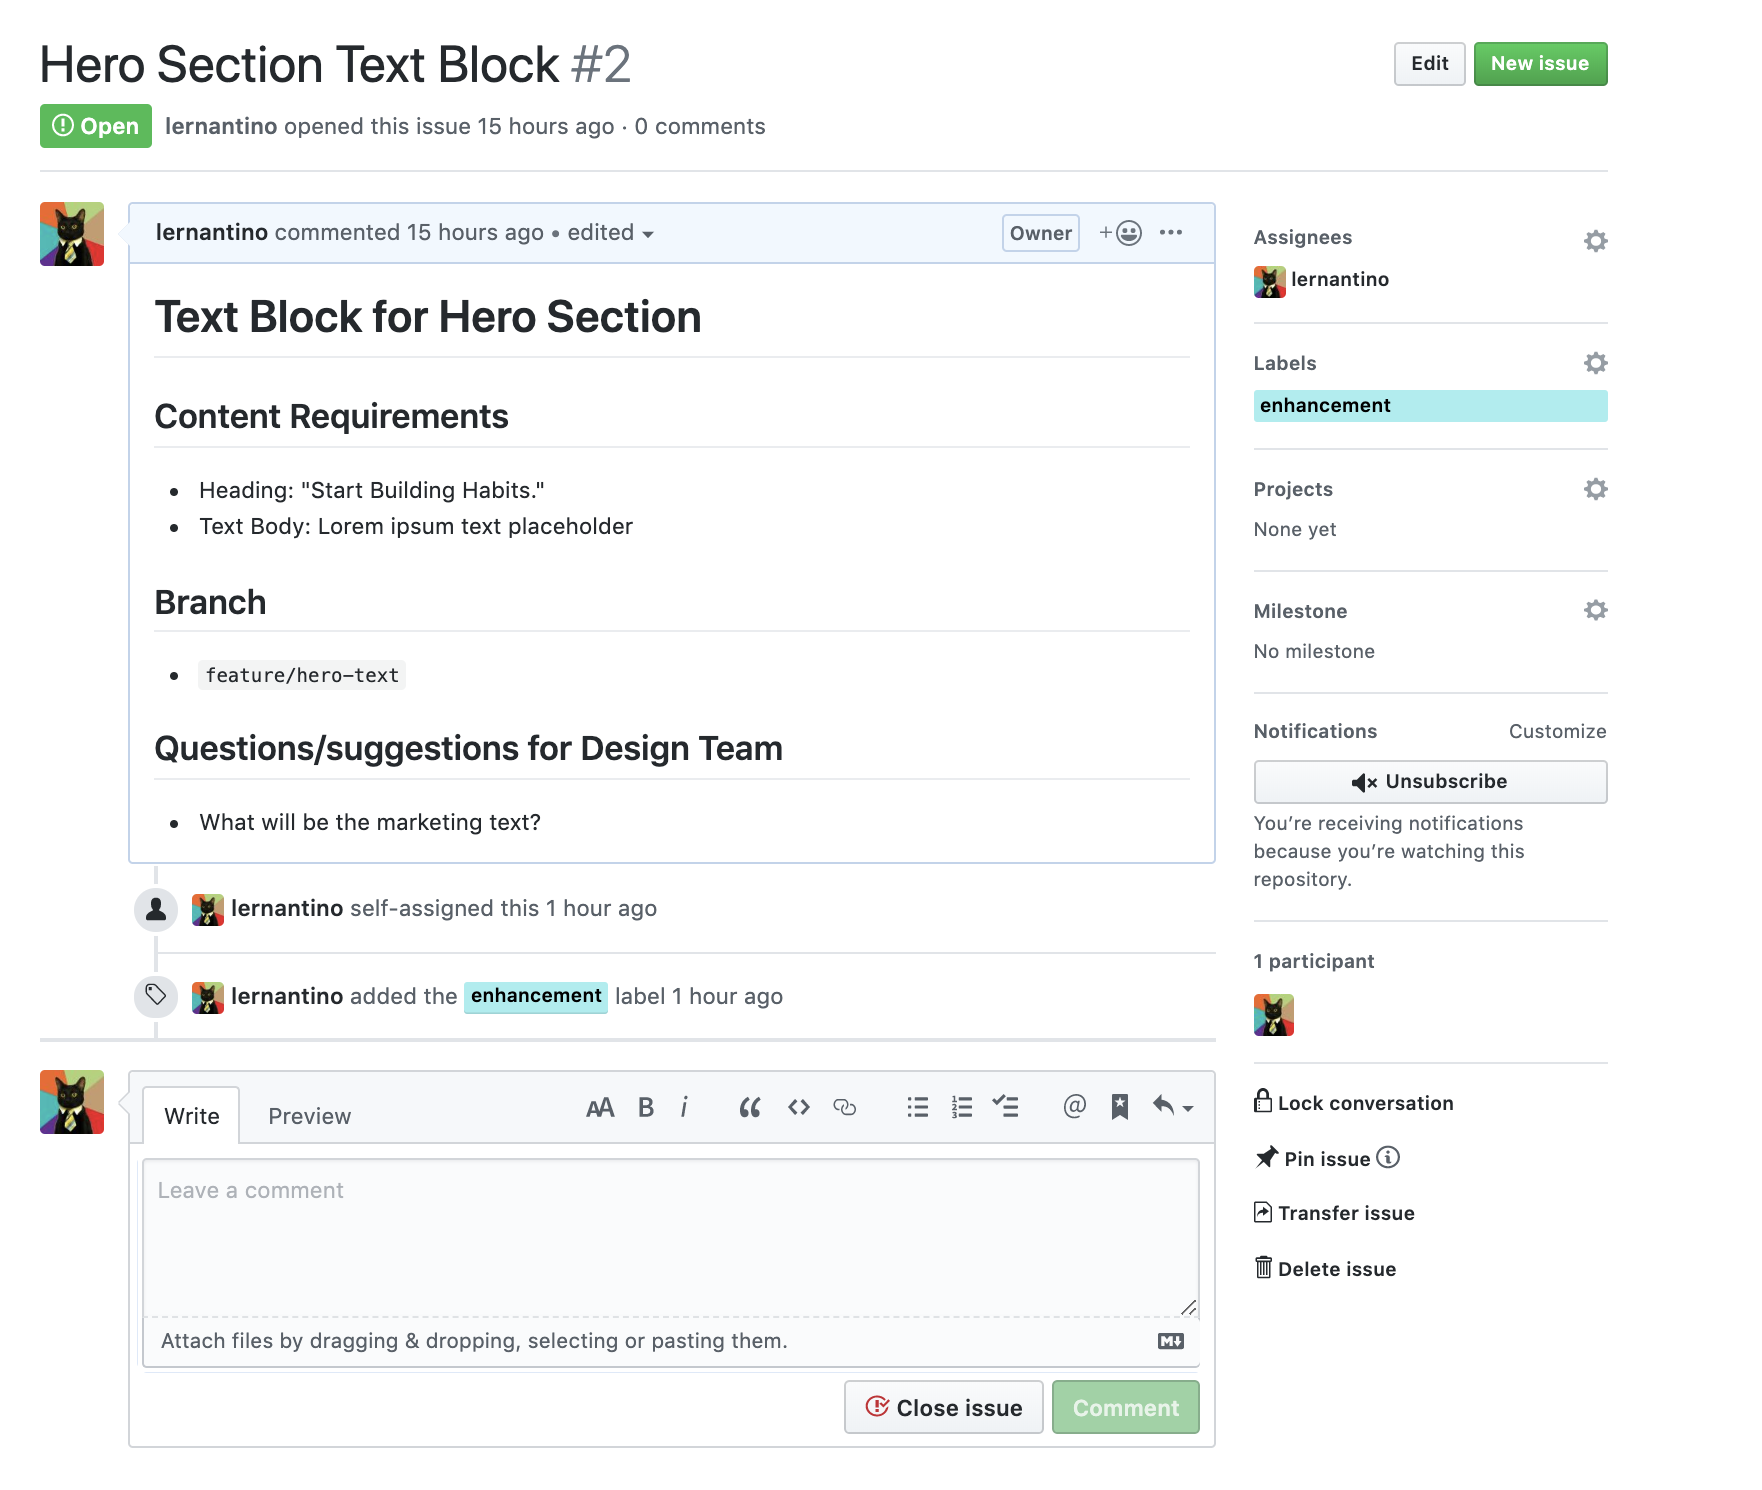
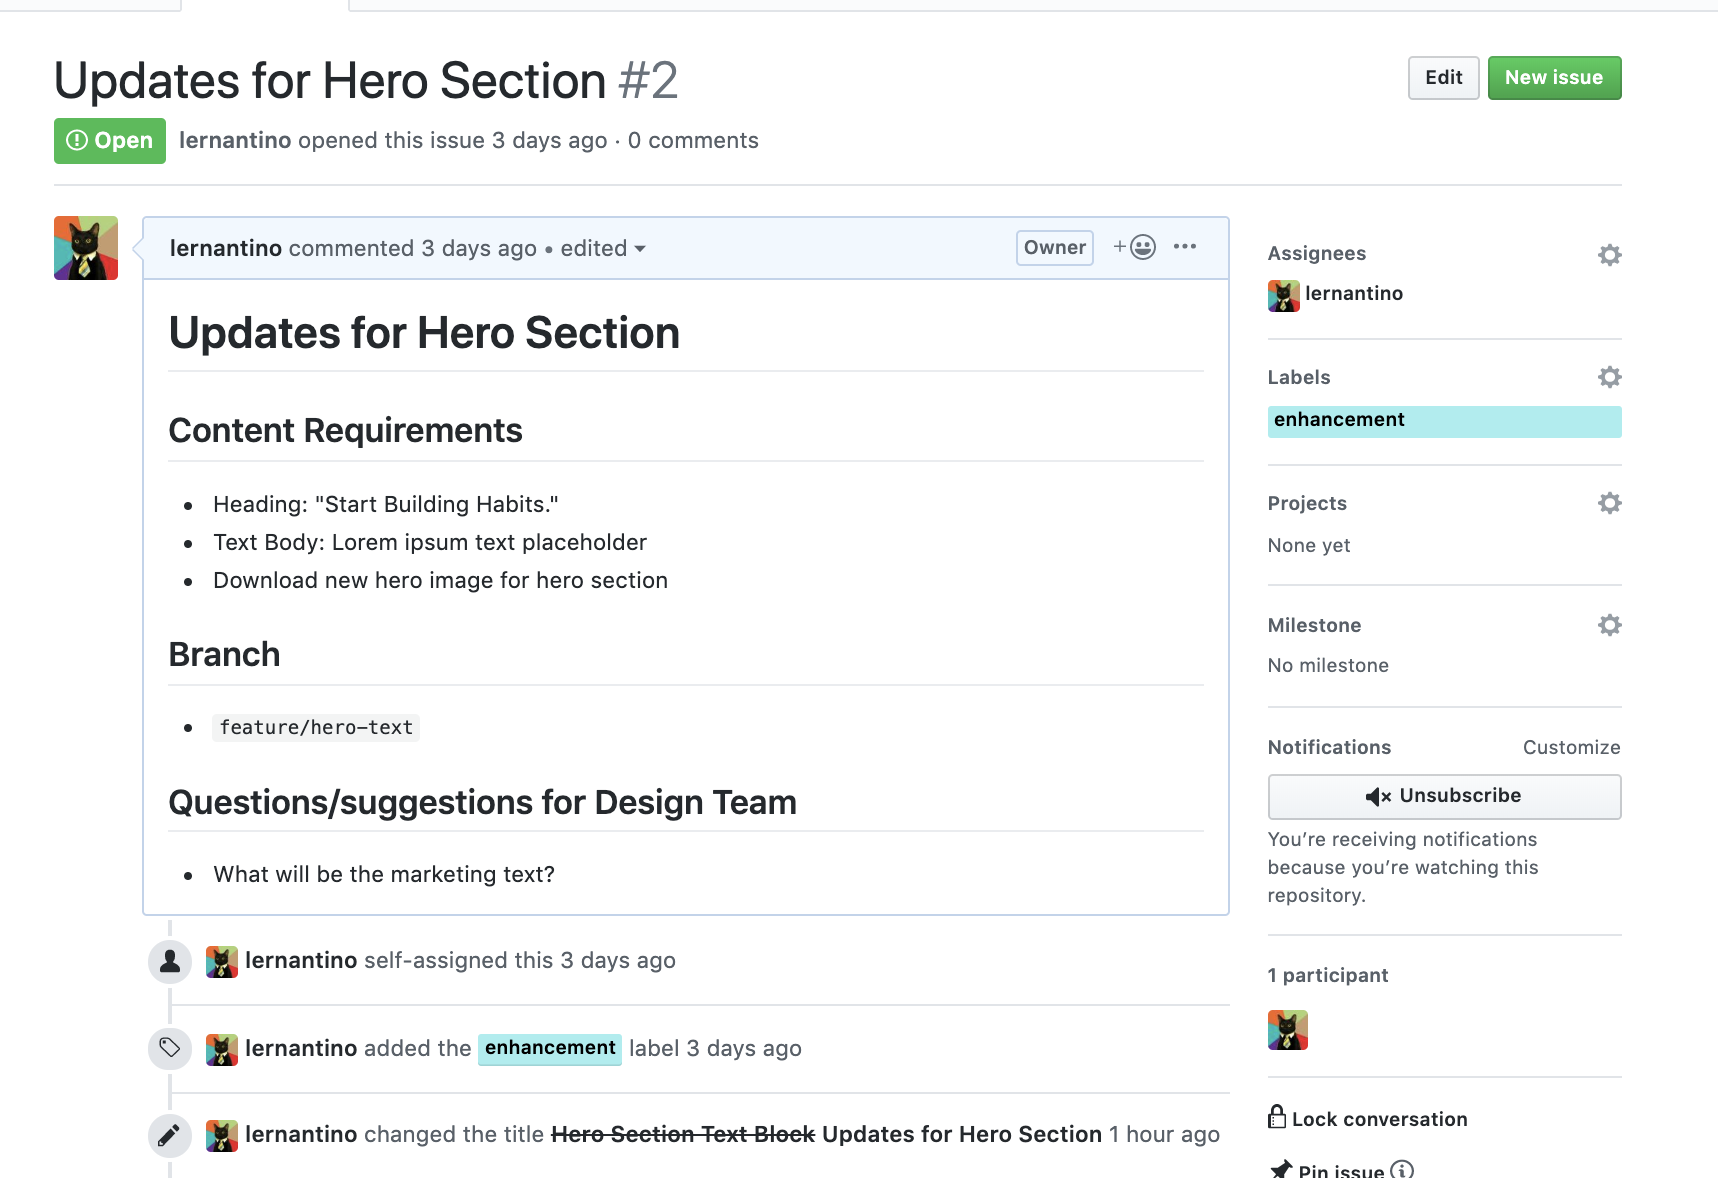
checked updated changes to peer review

diff --git a/02-css/content/lesson-1-git_workflow.md b/02-css/content/lesson-1-git_workflow.md
@@ -424,15 +424,16 @@ The naming convention for feature branches is something normally agreed upon by 
 >3) Type a comment using Markdown to outline the feature's requirements and other information related to this task.
 Here is a simple example: 
 ```markdown
-# Text Block for Hero Section
+# Updates for Hero Section
 
 ## Content Requirements
-* Heading = "Start Building Habits."
-* Lorem ipsum text placeholder
+* Heading: "Start Building Habits."
+* Text Body: Lorem ipsum text placeholder
+* Download new hero image for hero section
 
 ## Branch
 * `feature/hero-text`
- 
+
 ## Questions/suggestions for Design Team
 * What will be the marketing text?
 ```
@@ -443,11 +444,11 @@ Click on the Labels option
 >5) Click on the "Submit new issue" button.
 
 We should see the following screen following a successful issue creation.
-## Add red outline to Edit and Close Issue Buttons
+<!--  Add red outline to Edit and Close Issue Buttons -->
 ![Git Issue Success](assets/lesson-1/801-edit-git-issue.png) 
 
 Congratulations on completing your first Git issue. Please note this screen is the edit screen that allows changing the text as well as closing the issue once the enhancement or work has been finished. This edit screen can be found on the Issues tab which now notes there is one outstanding issue at the repo's landing page.
-Take a look at [GitHub's help documents for an expansive view of how Git issues can further assist in project management.](https://help.github.com/en/articles/managing-your-work-with-issues)
+Take a look at [GitHub's help documents for an expansive view of how Git issues](https://help.github.com/en/articles/managing-your-work-with-issues) can further assist in project management.
 
 Now that we understand how to make a Git issue, let's create another one for another HTML addition we have been assigned from the sales department. They would like a form for users to submit questions directly to the sales staff in the Reach Out section.
 > **Activity**: Please create a new Git issue for this new feature.
@@ -465,7 +466,7 @@ Now that we understand how to make a Git issue, let's create another one for ano
 ```
 ![Git Issue Contact-Form Success](assets/lesson-1/820-contact-git-issue.png) <br />
 Notice from the image that this issue was also assigned and labelled to provide more detail to the development team.
-Here is a list of the issues we must create for our development team we have received from the management team. Let's make the rest of the issues needed to complete version 2.0 of Run Buddy.
+Here is a list of the issues we must create for our development team we have received from the management team. Let's make the following five separate issues needed to complete version 2.0 of Run Buddy.
 1) Title: Advanced layouts using Flexbox<br>
 Branch: `feature/flexbox`
 2) Title: Mobile responsiveness with Media Queries<br>
@@ -476,7 +477,6 @@ Branch: `feature/grid`
 Branch: `feature/aesthetics`
 5) Title: Adding animation<br>
 Branch: `feature/animation`
-
 
 Let's continue progressing through our project requirements to add some HTML content in our next step and transition this issue into a feature branch. Normally we would assign each of these features to different team members so we can work in parallel, but in our case we will work through each of these issues ourselves to get better practice in CSS and Git workflow.
 
@@ -523,7 +523,6 @@ Let's take a quick look at the Git issue and the mock-up from the design team to
 > **Activity**: Practice your HTML skills by fulfilling the Git issue requirements and following the mock-up for guidance.
 > **Solution**: The markup should look like this:
 ```html
-<!-- 2.1 - Added call to action (CTA) -->
    <div class="hero-cta">
     <h2>Start Building Habits.</h2>
     <p>
